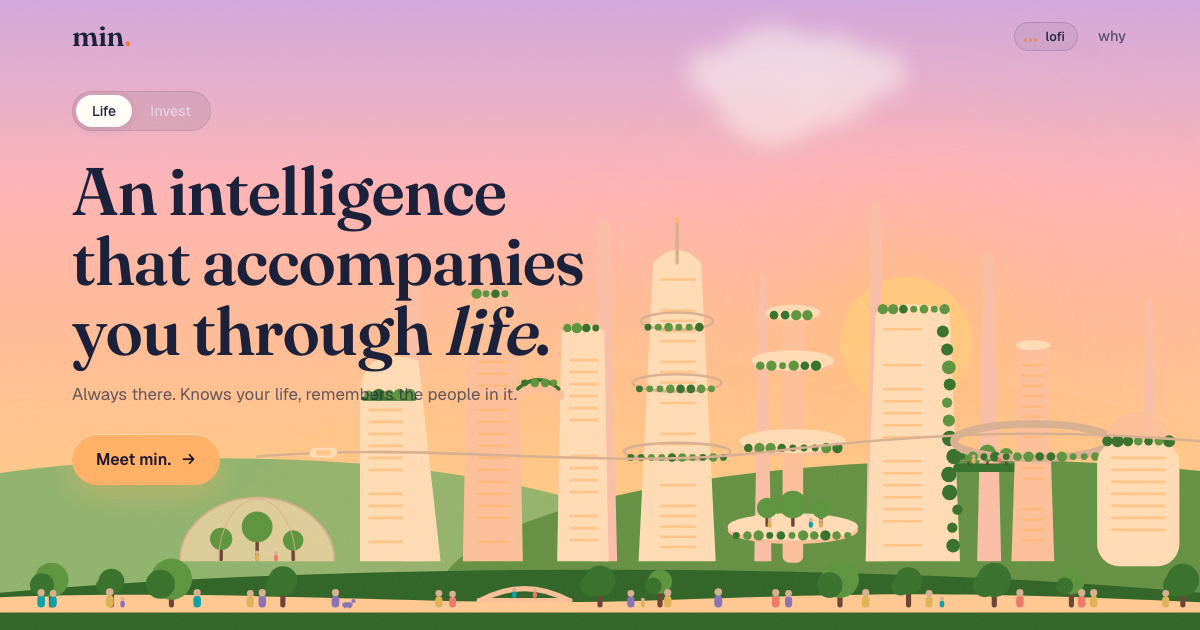
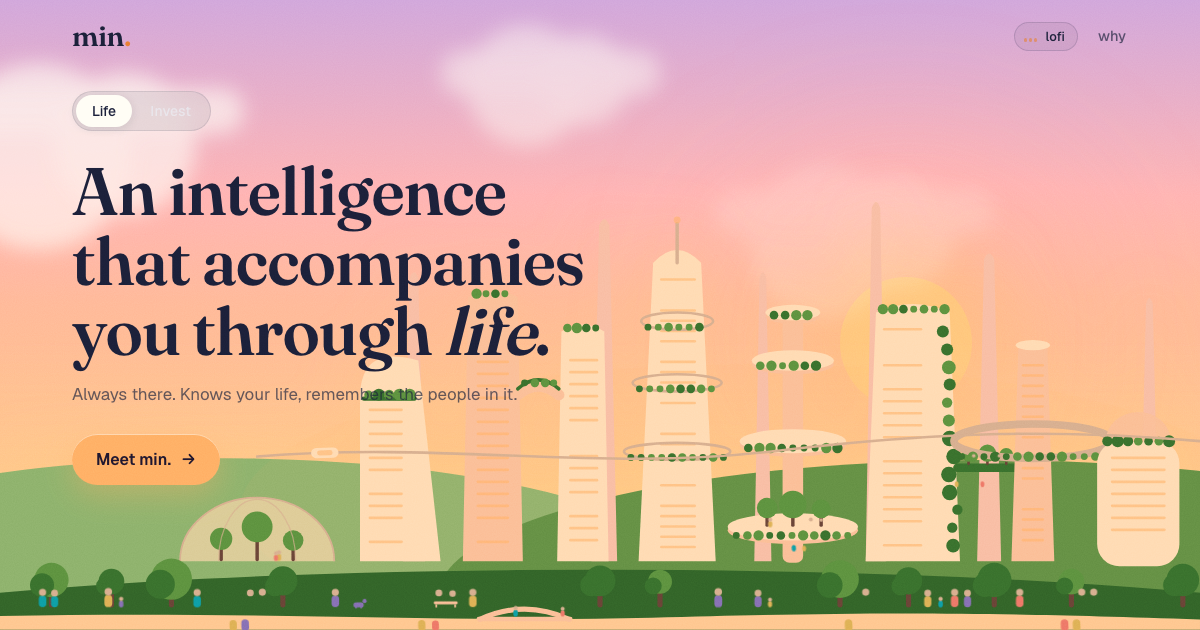
The people have their own lives
Everyone in the city now has somewhere to be or someone to talk to. Along
the promenade: couples and families walk its length at their own pace
and turn back, a child hops beside a parent, a dog runs ahead of its
person and waits, two friends on a bench lean in and nod, someone stands
and watches the river. Two cross the bridge, two chat on the park deck,
one drifts along the disc tower's platform, one wanders the glasshouse.
Nineteen of the thirty-three move; the rest are still on purpose.

All of it is transform-only CSS on the figures, so it costs nothing to
scroll, and all of it is off under reduced motion. The river moves to
the bottom edge of the scene with the bridge over it, because the
promenade's feet were standing in the water. Same drawing on both pages.

Changed region(s): [[0.0, 0.9349, 1.0, 1.0], [0.37, 0.0302, 0.7708, 0.2413], [0.0, 0.0905, 0.2158, 0.3921]]

diff --git a/about/index.html b/about/index.html
@@ -84,13 +84,40 @@
   .city .cityglow { opacity: var(--cityglow); }
   .city .pod { offset-path: path("M300,318 C520,300 700,336 900,312 S1240,286 1400,300"); offset-rotate: auto; animation: ride 46s linear infinite; }
   @keyframes ride { from { offset-distance: 0%; } to { offset-distance: 100%; } }
-  /* people: small enough to be part of the place, present enough to be the point */
+  /* people: small enough to be part of the place, present enough to be the point.
+     everyone has somewhere to be or someone to talk to: walkers cross the
+     promenade at their own pace and turn back, a dog runs ahead and waits, a
+     child hops, friends lean in and nod, someone stands and watches the river.
+     all transform-only, all off under reduced motion. */
   .people .p { transition: fill var(--fade); }
-  .people .walk1 { animation: stroll 42s ease-in-out infinite alternate; }
-  .people .walk2 { animation: stroll 50s ease-in-out infinite alternate-reverse; }
-  .people .walk3 { animation: stroll 36s ease-in-out infinite alternate; }
-  @keyframes stroll { from { translate: 0 0; } to { translate: 120px 0; } }
-  @media (prefers-reduced-motion: reduce) { .people .walk1, .people .walk2, .people .walk3 { animation: none; } }
+  .people .go-a   { animation: go-a 44s ease-in-out infinite alternate; }
+  .people .go-a-r { animation: go-a 44s ease-in-out infinite alternate-reverse; }
+  .people .go-b   { animation: go-b 38s ease-in-out infinite alternate; }
+  .people .go-b-r { animation: go-b 38s ease-in-out infinite alternate-reverse; }
+  .people .go-c   { animation: go-c 60s ease-in-out infinite alternate; }
+  .people .go-c-r { animation: go-c 60s ease-in-out infinite alternate-reverse; }
+  .people .dogrun { animation: dogrun 60s ease-in-out infinite alternate; }
+  .people .cross  { animation: cross 22s ease-in-out infinite alternate; }
+  .people .cross-r{ animation: cross 22s ease-in-out infinite alternate-reverse; }
+  .people .drift  { animation: drift 30s ease-in-out infinite alternate; }
+  .people .drift-r{ animation: drift 30s ease-in-out infinite alternate-reverse; }
+  @keyframes go-a { to { translate: 150px 0; } }
+  @keyframes go-b { to { translate: -110px 0; } }
+  @keyframes go-c { to { translate: 210px 0; } }
+  @keyframes dogrun { 0% { translate: 0 0; } 30% { translate: 210px 0; } 100% { translate: 210px 0; } }
+  @keyframes cross { to { translate: 34px 0; } }
+  @keyframes drift { to { translate: 26px 0; } }
+  .people .bob > * { animation: bob .72s ease-in-out infinite; }
+  .people .hop > * { animation: hop 1.3s ease-in-out infinite; }
+  .people .chat > circle { animation: nod 3.1s ease-in-out infinite; }
+  .people .chat > rect { transform-origin: 50% 100%; animation: lean 5.2s ease-in-out infinite alternate; }
+  .people .look > circle { animation: nod 7s ease-in-out infinite; }
+  .people .late > * { animation-delay: -1.7s; }
+  @keyframes bob { 50% { transform: translateY(-1.1px); } }
+  @keyframes hop { 0%, 60%, 100% { transform: translateY(0); } 30% { transform: translateY(-3.5px); } }
+  @keyframes nod { 0%, 100% { transform: translateY(0); } 40% { transform: translateY(-.7px); } 55% { transform: translateY(.3px); } }
+  @keyframes lean { from { transform: rotate(-2.5deg); } to { transform: rotate(2.5deg); } }
+  @media (prefers-reduced-motion: reduce) { .people .p, .people .p > * { animation: none !important; } }
   .haze { position: absolute; inset: auto 0 0 0; height: 60%; z-index: 2; pointer-events: none; background: linear-gradient(to top, var(--haze), transparent); }
   @media (max-width: 760px) {
     .city { width: 230%; left: -65%; }
@@ -382,9 +409,9 @@
   <path class="rail" d="M300,318 C520,300 700,336 900,312 S1240,286 1400,300" fill="none" stroke="var(--rail)" stroke-width="3" stroke-linecap="round"/>
   <g class="pod"><rect x="-16" y="-6" width="32" height="12" rx="6" fill="var(--tower)"/><rect x="-9" y="-3" width="18" height="6" rx="3" fill="var(--glow)" class="win"/></g>
   <ellipse cx="700" cy="540" rx="980" ry="90" fill="var(--hill-near)"/>
-  <path d="M0,482 C300,472 520,494 760,486 S1100,474 1400,488 L1400,500 L0,500 Z" fill="var(--water)"/>
-  <path d="M560,486 Q612,458 664,486" fill="none" stroke="var(--tower-2)" stroke-width="6" stroke-linecap="round"/>
-  <rect x="556" y="483" width="112" height="5" rx="2.5" fill="var(--tower-2)"/>
+  <path d="M0,504 C300,498 520,512 760,506 S1100,498 1400,508 L1400,520 L0,520 Z" fill="var(--water)"/>
+  <path d="M560,508 Q612,484 664,508" fill="none" stroke="var(--tower-2)" stroke-width="6" stroke-linecap="round"/>
+  <rect x="556" y="505" width="112" height="5" rx="2.5" fill="var(--tower-2)"/>
   <rect x="57" y="470" width="6" height="24" rx="3" fill="var(--trunk)"/>
   <circle cx="60" cy="462" r="20" fill="var(--leaf)"/>
   <circle cx="49" cy="468" r="14" fill="var(--leaf-2)"/>
@@ -419,40 +446,40 @@
   <circle cx="1380" cy="462" r="19" fill="var(--leaf-2)"/>
   <circle cx="1370" cy="468" r="13" fill="var(--leaf-2)"/>
   <g class="people" aria-hidden="true">
-  <g class="p" transform="translate(48,494)"><rect x="-4.4" y="-13.6" width="8.8" height="13.6" rx="4.4" fill="var(--c2)"/><circle cx="0" cy="-17.2" r="4.2" fill="var(--skin)"/></g>
-  <g class="p" transform="translate(62,494)"><rect x="-4.2" y="-13.0" width="8.4" height="13.0" rx="4.2" fill="var(--c2)"/><circle cx="0" cy="-16.4" r="4.0" fill="var(--skin)"/></g>
-  <g class="p" transform="translate(128,494)"><rect x="-4.6" y="-14.3" width="9.2" height="14.3" rx="4.6" fill="var(--c3)"/><circle cx="0" cy="-18.0" r="4.4" fill="var(--skin)"/></g>
-  <g class="p" transform="translate(143,494)"><rect x="-2.6" y="-8.1" width="5.2" height="8.1" rx="2.6" fill="var(--c4)"/><circle cx="0" cy="-9.9" r="2.5" fill="var(--skin)"/></g>
-  <g class="p" transform="translate(230,494)"><rect x="-4.4" y="-13.6" width="8.8" height="13.6" rx="4.4" fill="var(--c2)"/><circle cx="0" cy="-17.2" r="4.2" fill="var(--skin)"/></g>
-  <g class="p" transform="translate(292,494)"><rect x="-4.2" y="-13.0" width="8.4" height="13.0" rx="4.2" fill="var(--c3)"/><circle cx="0" cy="-16.4" r="4.0" fill="var(--skin)"/></g>
-  <g class="p" transform="translate(306,494)"><rect x="-4.4" y="-13.6" width="8.8" height="13.6" rx="4.4" fill="var(--c4)"/><circle cx="0" cy="-17.2" r="4.2" fill="var(--skin)"/></g>
-  <g class="p walk1" transform="translate(390,494)"><rect x="-4.4" y="-13.6" width="8.8" height="13.6" rx="4.4" fill="var(--c4)"/><circle cx="0" cy="-17.2" r="4.2" fill="var(--skin)"/></g>
-  <g class="p walk1" transform="translate(404,494)"><rect x="-6" y="-6" width="12" height="6" rx="3" fill="var(--c4)"/><circle cx="7" cy="-7.5" r="2.4" fill="var(--c4)"/><rect x="-4" y="-1" width="2" height="2" fill="var(--c4)"/><rect x="2" y="-1" width="2" height="2" fill="var(--c4)"/></g>
+  <g class="p go-a bob" transform="translate(48,494)"><rect x="-4.4" y="-13.6" width="8.8" height="13.6" rx="4.4" fill="var(--c2)"/><circle cx="0" cy="-17.2" r="4.2" fill="var(--skin)"/></g>
+  <g class="p go-a bob" transform="translate(62,494)"><rect x="-4.2" y="-13.0" width="8.4" height="13.0" rx="4.2" fill="var(--c2)"/><circle cx="0" cy="-16.4" r="4.0" fill="var(--skin)"/></g>
+  <g class="p go-b bob" transform="translate(128,494)"><rect x="-4.6" y="-14.3" width="9.2" height="14.3" rx="4.6" fill="var(--c3)"/><circle cx="0" cy="-18.0" r="4.4" fill="var(--skin)"/></g>
+  <g class="p go-b hop" transform="translate(143,494)"><rect x="-2.6" y="-8.1" width="5.2" height="8.1" rx="2.6" fill="var(--c4)"/><circle cx="0" cy="-9.9" r="2.5" fill="var(--skin)"/></g>
+  <g class="p look" transform="translate(230,494)"><rect x="-4.4" y="-13.6" width="8.8" height="13.6" rx="4.4" fill="var(--c2)"/><circle cx="0" cy="-17.2" r="4.2" fill="var(--skin)"/></g>
+  <g class="p chat" transform="translate(292,494)"><rect x="-4.2" y="-13.0" width="8.4" height="13.0" rx="4.2" fill="var(--c3)"/><circle cx="0" cy="-16.4" r="4.0" fill="var(--skin)"/></g>
+  <g class="p chat late" transform="translate(306,494)"><rect x="-4.4" y="-13.6" width="8.8" height="13.6" rx="4.4" fill="var(--c4)"/><circle cx="0" cy="-17.2" r="4.2" fill="var(--skin)"/></g>
+  <g class="p go-c bob" transform="translate(390,494)"><rect x="-4.4" y="-13.6" width="8.8" height="13.6" rx="4.4" fill="var(--c4)"/><circle cx="0" cy="-17.2" r="4.2" fill="var(--skin)"/></g>
+  <g class="p dogrun" transform="translate(404,494)"><rect x="-6" y="-6" width="12" height="6" rx="3" fill="var(--c4)"/><circle cx="7" cy="-7.5" r="2.4" fill="var(--c4)"/><rect x="-4" y="-1" width="2" height="2" fill="var(--c4)"/><rect x="2" y="-1" width="2" height="2" fill="var(--c4)"/></g>
   <rect x="506" y="487" width="28" height="3.5" rx="1.7" fill="var(--tower-2)"/><rect x="508" y="490.5" width="2" height="3.5" fill="var(--tower-2)"/><rect x="530" y="490.5" width="2" height="3.5" fill="var(--tower-2)"/>
-  <g class="p" transform="translate(512,494)"><rect x="-4.2" y="-13.0" width="8.4" height="13.0" rx="4.2" fill="var(--c3)"/><circle cx="0" cy="-16.4" r="4.0" fill="var(--skin)"/></g>
-  <g class="p" transform="translate(528,494)"><rect x="-4.0" y="-12.4" width="8.0" height="12.4" rx="4.0" fill="var(--c1)"/><circle cx="0" cy="-15.6" r="3.8" fill="var(--skin)"/></g>
-  <g class="p walk2" transform="translate(660,494)"><rect x="-4.4" y="-13.6" width="8.8" height="13.6" rx="4.4" fill="var(--c3)"/><circle cx="0" cy="-17.2" r="4.2" fill="var(--skin)"/></g>
-  <g class="p" transform="translate(736,494)"><rect x="-4.2" y="-13.0" width="8.4" height="13.0" rx="4.2" fill="var(--c4)"/><circle cx="0" cy="-16.4" r="4.0" fill="var(--skin)"/></g>
-  <g class="p" transform="translate(750,494)"><rect x="-2.4" y="-7.4" width="4.8" height="7.4" rx="2.4" fill="var(--c3)"/><circle cx="0" cy="-9.1" r="2.3" fill="var(--skin)"/></g>
-  <g class="p" transform="translate(838,494)"><rect x="-4.6" y="-14.3" width="9.2" height="14.3" rx="4.6" fill="var(--c4)"/><circle cx="0" cy="-18.0" r="4.4" fill="var(--skin)"/></g>
-  <g class="p" transform="translate(905,494)"><rect x="-4.4" y="-13.6" width="8.8" height="13.6" rx="4.4" fill="var(--c1)"/><circle cx="0" cy="-17.2" r="4.2" fill="var(--skin)"/></g>
-  <g class="p" transform="translate(920,494)"><rect x="-4.2" y="-13.0" width="8.4" height="13.0" rx="4.2" fill="var(--c4)"/><circle cx="0" cy="-16.4" r="4.0" fill="var(--skin)"/></g>
-  <g class="p" transform="translate(1010,494)"><rect x="-4.4" y="-13.6" width="8.8" height="13.6" rx="4.4" fill="var(--c3)"/><circle cx="0" cy="-17.2" r="4.2" fill="var(--skin)"/></g>
-  <g class="p" transform="translate(1084,494)"><rect x="-4.2" y="-13.0" width="8.4" height="13.0" rx="4.2" fill="var(--c3)"/><circle cx="0" cy="-16.4" r="4.0" fill="var(--skin)"/></g>
-  <g class="p" transform="translate(1099,494)"><rect x="-2.6" y="-8.1" width="5.2" height="8.1" rx="2.6" fill="var(--c2)"/><circle cx="0" cy="-9.9" r="2.5" fill="var(--skin)"/></g>
-  <g class="p walk3" transform="translate(1188,494)"><rect x="-4.4" y="-13.6" width="8.8" height="13.6" rx="4.4" fill="var(--c1)"/><circle cx="0" cy="-17.2" r="4.2" fill="var(--skin)"/></g>
-  <g class="p" transform="translate(1262,494)"><rect x="-4.4" y="-13.6" width="8.8" height="13.6" rx="4.4" fill="var(--c1)"/><circle cx="0" cy="-17.2" r="4.2" fill="var(--skin)"/></g>
-  <g class="p" transform="translate(1276,494)"><rect x="-4.4" y="-13.6" width="8.8" height="13.6" rx="4.4" fill="var(--c3)"/><circle cx="0" cy="-17.2" r="4.2" fill="var(--skin)"/></g>
-  <g class="p" transform="translate(1360,494)"><rect x="-4.2" y="-13.0" width="8.4" height="13.0" rx="4.2" fill="var(--c3)"/><circle cx="0" cy="-16.4" r="4.0" fill="var(--skin)"/></g>
-  <g class="p" transform="translate(600,483)"><rect x="-2.6" y="-8.1" width="5.2" height="8.1" rx="2.6" fill="var(--c2)"/><circle cx="0" cy="-9.9" r="2.5" fill="var(--skin)"/></g>
-  <g class="p" transform="translate(624,483)"><rect x="-2.4" y="-7.4" width="4.8" height="7.4" rx="2.4" fill="var(--c1)"/><circle cx="0" cy="-9.1" r="2.3" fill="var(--skin)"/></g>
-  <g class="p" transform="translate(1136,326)"><rect x="-2.2" y="-6.8" width="4.4" height="6.8" rx="2.2" fill="var(--c3)"/><circle cx="0" cy="-8.3" r="2.1" fill="var(--skin)"/></g>
-  <g class="p" transform="translate(1166,326)"><rect x="-2.2" y="-6.8" width="4.4" height="6.8" rx="2.2" fill="var(--c1)"/><circle cx="0" cy="-8.3" r="2.1" fill="var(--skin)"/></g>
-  <g class="p" transform="translate(898,401)"><rect x="-2.4" y="-7.4" width="4.8" height="7.4" rx="2.4" fill="var(--c3)"/><circle cx="0" cy="-9.1" r="2.3" fill="var(--skin)"/></g>
-  <g class="p" transform="translate(946,401)"><rect x="-2.4" y="-7.4" width="4.8" height="7.4" rx="2.4" fill="var(--c2)"/><circle cx="0" cy="-9.1" r="2.3" fill="var(--skin)"/></g>
-  <g class="p" transform="translate(958,401)"><rect x="-2.2" y="-6.8" width="4.4" height="6.8" rx="2.2" fill="var(--c3)"/><circle cx="0" cy="-8.3" r="2.1" fill="var(--skin)"/></g>
-  <g class="p" transform="translate(300,440)"><rect x="-2.6" y="-8.1" width="5.2" height="8.1" rx="2.6" fill="var(--c3)"/><circle cx="0" cy="-9.9" r="2.5" fill="var(--skin)"/></g>
-  <g class="p" transform="translate(322,440)"><rect x="-2.4" y="-7.4" width="4.8" height="7.4" rx="2.4" fill="var(--c1)"/><circle cx="0" cy="-9.1" r="2.3" fill="var(--skin)"/></g>
+  <g class="p chat" transform="translate(512,494)"><rect x="-4.2" y="-13.0" width="8.4" height="13.0" rx="4.2" fill="var(--c3)"/><circle cx="0" cy="-16.4" r="4.0" fill="var(--skin)"/></g>
+  <g class="p chat late" transform="translate(528,494)"><rect x="-4.0" y="-12.4" width="8.0" height="12.4" rx="4.0" fill="var(--c1)"/><circle cx="0" cy="-15.6" r="3.8" fill="var(--skin)"/></g>
+  <g class="p go-b-r bob" transform="translate(660,494)"><rect x="-4.4" y="-13.6" width="8.8" height="13.6" rx="4.4" fill="var(--c3)"/><circle cx="0" cy="-17.2" r="4.2" fill="var(--skin)"/></g>
+  <g class="p go-a-r bob" transform="translate(736,494)"><rect x="-4.2" y="-13.0" width="8.4" height="13.0" rx="4.2" fill="var(--c4)"/><circle cx="0" cy="-16.4" r="4.0" fill="var(--skin)"/></g>
+  <g class="p go-a-r hop" transform="translate(750,494)"><rect x="-2.4" y="-7.4" width="4.8" height="7.4" rx="2.4" fill="var(--c3)"/><circle cx="0" cy="-9.1" r="2.3" fill="var(--skin)"/></g>
+  <g class="p look late" transform="translate(838,494)"><rect x="-4.6" y="-14.3" width="9.2" height="14.3" rx="4.6" fill="var(--c4)"/><circle cx="0" cy="-18.0" r="4.4" fill="var(--skin)"/></g>
+  <g class="p go-c-r bob" transform="translate(905,494)"><rect x="-4.4" y="-13.6" width="8.8" height="13.6" rx="4.4" fill="var(--c1)"/><circle cx="0" cy="-17.2" r="4.2" fill="var(--skin)"/></g>
+  <g class="p go-c-r bob" transform="translate(920,494)"><rect x="-4.2" y="-13.0" width="8.4" height="13.0" rx="4.2" fill="var(--c4)"/><circle cx="0" cy="-16.4" r="4.0" fill="var(--skin)"/></g>
+  <g class="p chat" transform="translate(1010,494)"><rect x="-4.4" y="-13.6" width="8.8" height="13.6" rx="4.4" fill="var(--c3)"/><circle cx="0" cy="-17.2" r="4.2" fill="var(--skin)"/></g>
+  <g class="p go-b bob" transform="translate(1084,494)"><rect x="-4.2" y="-13.0" width="8.4" height="13.0" rx="4.2" fill="var(--c3)"/><circle cx="0" cy="-16.4" r="4.0" fill="var(--skin)"/></g>
+  <g class="p go-b hop late" transform="translate(1099,494)"><rect x="-2.6" y="-8.1" width="5.2" height="8.1" rx="2.6" fill="var(--c2)"/><circle cx="0" cy="-9.9" r="2.5" fill="var(--skin)"/></g>
+  <g class="p go-a bob" transform="translate(1188,494)"><rect x="-4.4" y="-13.6" width="8.8" height="13.6" rx="4.4" fill="var(--c1)"/><circle cx="0" cy="-17.2" r="4.2" fill="var(--skin)"/></g>
+  <g class="p chat late" transform="translate(1262,494)"><rect x="-4.4" y="-13.6" width="8.8" height="13.6" rx="4.4" fill="var(--c1)"/><circle cx="0" cy="-17.2" r="4.2" fill="var(--skin)"/></g>
+  <g class="p chat" transform="translate(1276,494)"><rect x="-4.4" y="-13.6" width="8.8" height="13.6" rx="4.4" fill="var(--c3)"/><circle cx="0" cy="-17.2" r="4.2" fill="var(--skin)"/></g>
+  <g class="p go-c-r bob" transform="translate(1360,494)"><rect x="-4.2" y="-13.0" width="8.4" height="13.0" rx="4.2" fill="var(--c3)"/><circle cx="0" cy="-16.4" r="4.0" fill="var(--skin)"/></g>
+  <g class="p cross bob" transform="translate(600,505)"><rect x="-2.6" y="-8.1" width="5.2" height="8.1" rx="2.6" fill="var(--c2)"/><circle cx="0" cy="-9.9" r="2.5" fill="var(--skin)"/></g>
+  <g class="p cross-r bob" transform="translate(624,505)"><rect x="-2.4" y="-7.4" width="4.8" height="7.4" rx="2.4" fill="var(--c1)"/><circle cx="0" cy="-9.1" r="2.3" fill="var(--skin)"/></g>
+  <g class="p chat" transform="translate(1136,326)"><rect x="-2.2" y="-6.8" width="4.4" height="6.8" rx="2.2" fill="var(--c3)"/><circle cx="0" cy="-8.3" r="2.1" fill="var(--skin)"/></g>
+  <g class="p chat late" transform="translate(1166,326)"><rect x="-2.2" y="-6.8" width="4.4" height="6.8" rx="2.2" fill="var(--c1)"/><circle cx="0" cy="-8.3" r="2.1" fill="var(--skin)"/></g>
+  <g class="p drift bob" transform="translate(898,401)"><rect x="-2.4" y="-7.4" width="4.8" height="7.4" rx="2.4" fill="var(--c3)"/><circle cx="0" cy="-9.1" r="2.3" fill="var(--skin)"/></g>
+  <g class="p chat" transform="translate(946,401)"><rect x="-2.4" y="-7.4" width="4.8" height="7.4" rx="2.4" fill="var(--c2)"/><circle cx="0" cy="-9.1" r="2.3" fill="var(--skin)"/></g>
+  <g class="p chat late" transform="translate(958,401)"><rect x="-2.2" y="-6.8" width="4.4" height="6.8" rx="2.2" fill="var(--c3)"/><circle cx="0" cy="-8.3" r="2.1" fill="var(--skin)"/></g>
+  <g class="p drift-r bob" transform="translate(300,440)"><rect x="-2.6" y="-8.1" width="5.2" height="8.1" rx="2.6" fill="var(--c3)"/><circle cx="0" cy="-9.9" r="2.5" fill="var(--skin)"/></g>
+  <g class="p look" transform="translate(322,440)"><rect x="-2.4" y="-7.4" width="4.8" height="7.4" rx="2.4" fill="var(--c1)"/><circle cx="0" cy="-9.1" r="2.3" fill="var(--skin)"/></g>
   </g>
 </svg>
     <div class="haze"></div>

diff --git a/index.html b/index.html
@@ -424,13 +424,40 @@
     .city { width: 230%; left: -65%; }
   }
 
-  /* people: small enough to be part of the place, present enough to be the point */
+  /* people: small enough to be part of the place, present enough to be the point.
+     everyone has somewhere to be or someone to talk to: walkers cross the
+     promenade at their own pace and turn back, a dog runs ahead and waits, a
+     child hops, friends lean in and nod, someone stands and watches the river.
+     all transform-only, all off under reduced motion. */
   .people .p { transition: fill var(--fade); }
-  .people .walk1 { animation: stroll 42s ease-in-out infinite alternate; }
-  .people .walk2 { animation: stroll 50s ease-in-out infinite alternate-reverse; }
-  .people .walk3 { animation: stroll 36s ease-in-out infinite alternate; }
-  @keyframes stroll { from { translate: 0 0; } to { translate: 120px 0; } }
-  @media (prefers-reduced-motion: reduce) { .people .walk1, .people .walk2, .people .walk3 { animation: none; } }
+  .people .go-a   { animation: go-a 44s ease-in-out infinite alternate; }
+  .people .go-a-r { animation: go-a 44s ease-in-out infinite alternate-reverse; }
+  .people .go-b   { animation: go-b 38s ease-in-out infinite alternate; }
+  .people .go-b-r { animation: go-b 38s ease-in-out infinite alternate-reverse; }
+  .people .go-c   { animation: go-c 60s ease-in-out infinite alternate; }
+  .people .go-c-r { animation: go-c 60s ease-in-out infinite alternate-reverse; }
+  .people .dogrun { animation: dogrun 60s ease-in-out infinite alternate; }
+  .people .cross  { animation: cross 22s ease-in-out infinite alternate; }
+  .people .cross-r{ animation: cross 22s ease-in-out infinite alternate-reverse; }
+  .people .drift  { animation: drift 30s ease-in-out infinite alternate; }
+  .people .drift-r{ animation: drift 30s ease-in-out infinite alternate-reverse; }
+  @keyframes go-a { to { translate: 150px 0; } }
+  @keyframes go-b { to { translate: -110px 0; } }
+  @keyframes go-c { to { translate: 210px 0; } }
+  @keyframes dogrun { 0% { translate: 0 0; } 30% { translate: 210px 0; } 100% { translate: 210px 0; } }
+  @keyframes cross { to { translate: 34px 0; } }
+  @keyframes drift { to { translate: 26px 0; } }
+  .people .bob > * { animation: bob .72s ease-in-out infinite; }
+  .people .hop > * { animation: hop 1.3s ease-in-out infinite; }
+  .people .chat > circle { animation: nod 3.1s ease-in-out infinite; }
+  .people .chat > rect { transform-origin: 50% 100%; animation: lean 5.2s ease-in-out infinite alternate; }
+  .people .look > circle { animation: nod 7s ease-in-out infinite; }
+  .people .late > * { animation-delay: -1.7s; }
+  @keyframes bob { 50% { transform: translateY(-1.1px); } }
+  @keyframes hop { 0%, 60%, 100% { transform: translateY(0); } 30% { transform: translateY(-3.5px); } }
+  @keyframes nod { 0%, 100% { transform: translateY(0); } 40% { transform: translateY(-.7px); } 55% { transform: translateY(.3px); } }
+  @keyframes lean { from { transform: rotate(-2.5deg); } to { transform: rotate(2.5deg); } }
+  @media (prefers-reduced-motion: reduce) { .people .p, .people .p > * { animation: none !important; } }
   /* fireflies, only at night and only when it is clear */
   .fly { position: absolute; z-index: 6; width: 5px; height: 5px; border-radius: 50%; background: var(--glow);
          box-shadow: 0 0 10px 3px oklch(from var(--glow) l c h / .5); opacity: 0; pointer-events: none; }
@@ -824,9 +851,9 @@
   <path class="rail" d="M300,318 C520,300 700,336 900,312 S1240,286 1400,300" fill="none" stroke="var(--rail)" stroke-width="3" stroke-linecap="round"/>
   <g class="pod"><rect x="-16" y="-6" width="32" height="12" rx="6" fill="var(--tower)"/><rect x="-9" y="-3" width="18" height="6" rx="3" fill="var(--glow)" class="win"/></g>
   <ellipse cx="700" cy="540" rx="980" ry="90" fill="var(--hill-near)"/>
-  <path d="M0,482 C300,472 520,494 760,486 S1100,474 1400,488 L1400,500 L0,500 Z" fill="var(--water)"/>
-  <path d="M560,486 Q612,458 664,486" fill="none" stroke="var(--tower-2)" stroke-width="6" stroke-linecap="round"/>
-  <rect x="556" y="483" width="112" height="5" rx="2.5" fill="var(--tower-2)"/>
+  <path d="M0,504 C300,498 520,512 760,506 S1100,498 1400,508 L1400,520 L0,520 Z" fill="var(--water)"/>
+  <path d="M560,508 Q612,484 664,508" fill="none" stroke="var(--tower-2)" stroke-width="6" stroke-linecap="round"/>
+  <rect x="556" y="505" width="112" height="5" rx="2.5" fill="var(--tower-2)"/>
   <rect x="57" y="470" width="6" height="24" rx="3" fill="var(--trunk)"/>
   <circle cx="60" cy="462" r="20" fill="var(--leaf)"/>
   <circle cx="49" cy="468" r="14" fill="var(--leaf-2)"/>
@@ -861,40 +888,40 @@
   <circle cx="1380" cy="462" r="19" fill="var(--leaf-2)"/>
   <circle cx="1370" cy="468" r="13" fill="var(--leaf-2)"/>
   <g class="people" aria-hidden="true">
-  <g class="p" transform="translate(48,494)"><rect x="-4.4" y="-13.6" width="8.8" height="13.6" rx="4.4" fill="var(--c2)"/><circle cx="0" cy="-17.2" r="4.2" fill="var(--skin)"/></g>
-  <g class="p" transform="translate(62,494)"><rect x="-4.2" y="-13.0" width="8.4" height="13.0" rx="4.2" fill="var(--c2)"/><circle cx="0" cy="-16.4" r="4.0" fill="var(--skin)"/></g>
-  <g class="p" transform="translate(128,494)"><rect x="-4.6" y="-14.3" width="9.2" height="14.3" rx="4.6" fill="var(--c3)"/><circle cx="0" cy="-18.0" r="4.4" fill="var(--skin)"/></g>
-  <g class="p" transform="translate(143,494)"><rect x="-2.6" y="-8.1" width="5.2" height="8.1" rx="2.6" fill="var(--c4)"/><circle cx="0" cy="-9.9" r="2.5" fill="var(--skin)"/></g>
-  <g class="p" transform="translate(230,494)"><rect x="-4.4" y="-13.6" width="8.8" height="13.6" rx="4.4" fill="var(--c2)"/><circle cx="0" cy="-17.2" r="4.2" fill="var(--skin)"/></g>
-  <g class="p" transform="translate(292,494)"><rect x="-4.2" y="-13.0" width="8.4" height="13.0" rx="4.2" fill="var(--c3)"/><circle cx="0" cy="-16.4" r="4.0" fill="var(--skin)"/></g>
-  <g class="p" transform="translate(306,494)"><rect x="-4.4" y="-13.6" width="8.8" height="13.6" rx="4.4" fill="var(--c4)"/><circle cx="0" cy="-17.2" r="4.2" fill="var(--skin)"/></g>
-  <g class="p walk1" transform="translate(390,494)"><rect x="-4.4" y="-13.6" width="8.8" height="13.6" rx="4.4" fill="var(--c4)"/><circle cx="0" cy="-17.2" r="4.2" fill="var(--skin)"/></g>
-  <g class="p walk1" transform="translate(404,494)"><rect x="-6" y="-6" width="12" height="6" rx="3" fill="var(--c4)"/><circle cx="7" cy="-7.5" r="2.4" fill="var(--c4)"/><rect x="-4" y="-1" width="2" height="2" fill="var(--c4)"/><rect x="2" y="-1" width="2" height="2" fill="var(--c4)"/></g>
+  <g class="p go-a bob" transform="translate(48,494)"><rect x="-4.4" y="-13.6" width="8.8" height="13.6" rx="4.4" fill="var(--c2)"/><circle cx="0" cy="-17.2" r="4.2" fill="var(--skin)"/></g>
+  <g class="p go-a bob" transform="translate(62,494)"><rect x="-4.2" y="-13.0" width="8.4" height="13.0" rx="4.2" fill="var(--c2)"/><circle cx="0" cy="-16.4" r="4.0" fill="var(--skin)"/></g>
+  <g class="p go-b bob" transform="translate(128,494)"><rect x="-4.6" y="-14.3" width="9.2" height="14.3" rx="4.6" fill="var(--c3)"/><circle cx="0" cy="-18.0" r="4.4" fill="var(--skin)"/></g>
+  <g class="p go-b hop" transform="translate(143,494)"><rect x="-2.6" y="-8.1" width="5.2" height="8.1" rx="2.6" fill="var(--c4)"/><circle cx="0" cy="-9.9" r="2.5" fill="var(--skin)"/></g>
+  <g class="p look" transform="translate(230,494)"><rect x="-4.4" y="-13.6" width="8.8" height="13.6" rx="4.4" fill="var(--c2)"/><circle cx="0" cy="-17.2" r="4.2" fill="var(--skin)"/></g>
+  <g class="p chat" transform="translate(292,494)"><rect x="-4.2" y="-13.0" width="8.4" height="13.0" rx="4.2" fill="var(--c3)"/><circle cx="0" cy="-16.4" r="4.0" fill="var(--skin)"/></g>
+  <g class="p chat late" transform="translate(306,494)"><rect x="-4.4" y="-13.6" width="8.8" height="13.6" rx="4.4" fill="var(--c4)"/><circle cx="0" cy="-17.2" r="4.2" fill="var(--skin)"/></g>
+  <g class="p go-c bob" transform="translate(390,494)"><rect x="-4.4" y="-13.6" width="8.8" height="13.6" rx="4.4" fill="var(--c4)"/><circle cx="0" cy="-17.2" r="4.2" fill="var(--skin)"/></g>
+  <g class="p dogrun" transform="translate(404,494)"><rect x="-6" y="-6" width="12" height="6" rx="3" fill="var(--c4)"/><circle cx="7" cy="-7.5" r="2.4" fill="var(--c4)"/><rect x="-4" y="-1" width="2" height="2" fill="var(--c4)"/><rect x="2" y="-1" width="2" height="2" fill="var(--c4)"/></g>
   <rect x="506" y="487" width="28" height="3.5" rx="1.7" fill="var(--tower-2)"/><rect x="508" y="490.5" width="2" height="3.5" fill="var(--tower-2)"/><rect x="530" y="490.5" width="2" height="3.5" fill="var(--tower-2)"/>
-  <g class="p" transform="translate(512,494)"><rect x="-4.2" y="-13.0" width="8.4" height="13.0" rx="4.2" fill="var(--c3)"/><circle cx="0" cy="-16.4" r="4.0" fill="var(--skin)"/></g>
-  <g class="p" transform="translate(528,494)"><rect x="-4.0" y="-12.4" width="8.0" height="12.4" rx="4.0" fill="var(--c1)"/><circle cx="0" cy="-15.6" r="3.8" fill="var(--skin)"/></g>
-  <g class="p walk2" transform="translate(660,494)"><rect x="-4.4" y="-13.6" width="8.8" height="13.6" rx="4.4" fill="var(--c3)"/><circle cx="0" cy="-17.2" r="4.2" fill="var(--skin)"/></g>
-  <g class="p" transform="translate(736,494)"><rect x="-4.2" y="-13.0" width="8.4" height="13.0" rx="4.2" fill="var(--c4)"/><circle cx="0" cy="-16.4" r="4.0" fill="var(--skin)"/></g>
-  <g class="p" transform="translate(750,494)"><rect x="-2.4" y="-7.4" width="4.8" height="7.4" rx="2.4" fill="var(--c3)"/><circle cx="0" cy="-9.1" r="2.3" fill="var(--skin)"/></g>
-  <g class="p" transform="translate(838,494)"><rect x="-4.6" y="-14.3" width="9.2" height="14.3" rx="4.6" fill="var(--c4)"/><circle cx="0" cy="-18.0" r="4.4" fill="var(--skin)"/></g>
-  <g class="p" transform="translate(905,494)"><rect x="-4.4" y="-13.6" width="8.8" height="13.6" rx="4.4" fill="var(--c1)"/><circle cx="0" cy="-17.2" r="4.2" fill="var(--skin)"/></g>
-  <g class="p" transform="translate(920,494)"><rect x="-4.2" y="-13.0" width="8.4" height="13.0" rx="4.2" fill="var(--c4)"/><circle cx="0" cy="-16.4" r="4.0" fill="var(--skin)"/></g>
-  <g class="p" transform="translate(1010,494)"><rect x="-4.4" y="-13.6" width="8.8" height="13.6" rx="4.4" fill="var(--c3)"/><circle cx="0" cy="-17.2" r="4.2" fill="var(--skin)"/></g>
-  <g class="p" transform="translate(1084,494)"><rect x="-4.2" y="-13.0" width="8.4" height="13.0" rx="4.2" fill="var(--c3)"/><circle cx="0" cy="-16.4" r="4.0" fill="var(--skin)"/></g>
-  <g class="p" transform="translate(1099,494)"><rect x="-2.6" y="-8.1" width="5.2" height="8.1" rx="2.6" fill="var(--c2)"/><circle cx="0" cy="-9.9" r="2.5" fill="var(--skin)"/></g>
-  <g class="p walk3" transform="translate(1188,494)"><rect x="-4.4" y="-13.6" width="8.8" height="13.6" rx="4.4" fill="var(--c1)"/><circle cx="0" cy="-17.2" r="4.2" fill="var(--skin)"/></g>
-  <g class="p" transform="translate(1262,494)"><rect x="-4.4" y="-13.6" width="8.8" height="13.6" rx="4.4" fill="var(--c1)"/><circle cx="0" cy="-17.2" r="4.2" fill="var(--skin)"/></g>
-  <g class="p" transform="translate(1276,494)"><rect x="-4.4" y="-13.6" width="8.8" height="13.6" rx="4.4" fill="var(--c3)"/><circle cx="0" cy="-17.2" r="4.2" fill="var(--skin)"/></g>
-  <g class="p" transform="translate(1360,494)"><rect x="-4.2" y="-13.0" width="8.4" height="13.0" rx="4.2" fill="var(--c3)"/><circle cx="0" cy="-16.4" r="4.0" fill="var(--skin)"/></g>
-  <g class="p" transform="translate(600,483)"><rect x="-2.6" y="-8.1" width="5.2" height="8.1" rx="2.6" fill="var(--c2)"/><circle cx="0" cy="-9.9" r="2.5" fill="var(--skin)"/></g>
-  <g class="p" transform="translate(624,483)"><rect x="-2.4" y="-7.4" width="4.8" height="7.4" rx="2.4" fill="var(--c1)"/><circle cx="0" cy="-9.1" r="2.3" fill="var(--skin)"/></g>
-  <g class="p" transform="translate(1136,326)"><rect x="-2.2" y="-6.8" width="4.4" height="6.8" rx="2.2" fill="var(--c3)"/><circle cx="0" cy="-8.3" r="2.1" fill="var(--skin)"/></g>
-  <g class="p" transform="translate(1166,326)"><rect x="-2.2" y="-6.8" width="4.4" height="6.8" rx="2.2" fill="var(--c1)"/><circle cx="0" cy="-8.3" r="2.1" fill="var(--skin)"/></g>
-  <g class="p" transform="translate(898,401)"><rect x="-2.4" y="-7.4" width="4.8" height="7.4" rx="2.4" fill="var(--c3)"/><circle cx="0" cy="-9.1" r="2.3" fill="var(--skin)"/></g>
-  <g class="p" transform="translate(946,401)"><rect x="-2.4" y="-7.4" width="4.8" height="7.4" rx="2.4" fill="var(--c2)"/><circle cx="0" cy="-9.1" r="2.3" fill="var(--skin)"/></g>
-  <g class="p" transform="translate(958,401)"><rect x="-2.2" y="-6.8" width="4.4" height="6.8" rx="2.2" fill="var(--c3)"/><circle cx="0" cy="-8.3" r="2.1" fill="var(--skin)"/></g>
-  <g class="p" transform="translate(300,440)"><rect x="-2.6" y="-8.1" width="5.2" height="8.1" rx="2.6" fill="var(--c3)"/><circle cx="0" cy="-9.9" r="2.5" fill="var(--skin)"/></g>
-  <g class="p" transform="translate(322,440)"><rect x="-2.4" y="-7.4" width="4.8" height="7.4" rx="2.4" fill="var(--c1)"/><circle cx="0" cy="-9.1" r="2.3" fill="var(--skin)"/></g>
+  <g class="p chat" transform="translate(512,494)"><rect x="-4.2" y="-13.0" width="8.4" height="13.0" rx="4.2" fill="var(--c3)"/><circle cx="0" cy="-16.4" r="4.0" fill="var(--skin)"/></g>
+  <g class="p chat late" transform="translate(528,494)"><rect x="-4.0" y="-12.4" width="8.0" height="12.4" rx="4.0" fill="var(--c1)"/><circle cx="0" cy="-15.6" r="3.8" fill="var(--skin)"/></g>
+  <g class="p go-b-r bob" transform="translate(660,494)"><rect x="-4.4" y="-13.6" width="8.8" height="13.6" rx="4.4" fill="var(--c3)"/><circle cx="0" cy="-17.2" r="4.2" fill="var(--skin)"/></g>
+  <g class="p go-a-r bob" transform="translate(736,494)"><rect x="-4.2" y="-13.0" width="8.4" height="13.0" rx="4.2" fill="var(--c4)"/><circle cx="0" cy="-16.4" r="4.0" fill="var(--skin)"/></g>
+  <g class="p go-a-r hop" transform="translate(750,494)"><rect x="-2.4" y="-7.4" width="4.8" height="7.4" rx="2.4" fill="var(--c3)"/><circle cx="0" cy="-9.1" r="2.3" fill="var(--skin)"/></g>
+  <g class="p look late" transform="translate(838,494)"><rect x="-4.6" y="-14.3" width="9.2" height="14.3" rx="4.6" fill="var(--c4)"/><circle cx="0" cy="-18.0" r="4.4" fill="var(--skin)"/></g>
+  <g class="p go-c-r bob" transform="translate(905,494)"><rect x="-4.4" y="-13.6" width="8.8" height="13.6" rx="4.4" fill="var(--c1)"/><circle cx="0" cy="-17.2" r="4.2" fill="var(--skin)"/></g>
+  <g class="p go-c-r bob" transform="translate(920,494)"><rect x="-4.2" y="-13.0" width="8.4" height="13.0" rx="4.2" fill="var(--c4)"/><circle cx="0" cy="-16.4" r="4.0" fill="var(--skin)"/></g>
+  <g class="p chat" transform="translate(1010,494)"><rect x="-4.4" y="-13.6" width="8.8" height="13.6" rx="4.4" fill="var(--c3)"/><circle cx="0" cy="-17.2" r="4.2" fill="var(--skin)"/></g>
+  <g class="p go-b bob" transform="translate(1084,494)"><rect x="-4.2" y="-13.0" width="8.4" height="13.0" rx="4.2" fill="var(--c3)"/><circle cx="0" cy="-16.4" r="4.0" fill="var(--skin)"/></g>
+  <g class="p go-b hop late" transform="translate(1099,494)"><rect x="-2.6" y="-8.1" width="5.2" height="8.1" rx="2.6" fill="var(--c2)"/><circle cx="0" cy="-9.9" r="2.5" fill="var(--skin)"/></g>
+  <g class="p go-a bob" transform="translate(1188,494)"><rect x="-4.4" y="-13.6" width="8.8" height="13.6" rx="4.4" fill="var(--c1)"/><circle cx="0" cy="-17.2" r="4.2" fill="var(--skin)"/></g>
+  <g class="p chat late" transform="translate(1262,494)"><rect x="-4.4" y="-13.6" width="8.8" height="13.6" rx="4.4" fill="var(--c1)"/><circle cx="0" cy="-17.2" r="4.2" fill="var(--skin)"/></g>
+  <g class="p chat" transform="translate(1276,494)"><rect x="-4.4" y="-13.6" width="8.8" height="13.6" rx="4.4" fill="var(--c3)"/><circle cx="0" cy="-17.2" r="4.2" fill="var(--skin)"/></g>
+  <g class="p go-c-r bob" transform="translate(1360,494)"><rect x="-4.2" y="-13.0" width="8.4" height="13.0" rx="4.2" fill="var(--c3)"/><circle cx="0" cy="-16.4" r="4.0" fill="var(--skin)"/></g>
+  <g class="p cross bob" transform="translate(600,505)"><rect x="-2.6" y="-8.1" width="5.2" height="8.1" rx="2.6" fill="var(--c2)"/><circle cx="0" cy="-9.9" r="2.5" fill="var(--skin)"/></g>
+  <g class="p cross-r bob" transform="translate(624,505)"><rect x="-2.4" y="-7.4" width="4.8" height="7.4" rx="2.4" fill="var(--c1)"/><circle cx="0" cy="-9.1" r="2.3" fill="var(--skin)"/></g>
+  <g class="p chat" transform="translate(1136,326)"><rect x="-2.2" y="-6.8" width="4.4" height="6.8" rx="2.2" fill="var(--c3)"/><circle cx="0" cy="-8.3" r="2.1" fill="var(--skin)"/></g>
+  <g class="p chat late" transform="translate(1166,326)"><rect x="-2.2" y="-6.8" width="4.4" height="6.8" rx="2.2" fill="var(--c1)"/><circle cx="0" cy="-8.3" r="2.1" fill="var(--skin)"/></g>
+  <g class="p drift bob" transform="translate(898,401)"><rect x="-2.4" y="-7.4" width="4.8" height="7.4" rx="2.4" fill="var(--c3)"/><circle cx="0" cy="-9.1" r="2.3" fill="var(--skin)"/></g>
+  <g class="p chat" transform="translate(946,401)"><rect x="-2.4" y="-7.4" width="4.8" height="7.4" rx="2.4" fill="var(--c2)"/><circle cx="0" cy="-9.1" r="2.3" fill="var(--skin)"/></g>
+  <g class="p chat late" transform="translate(958,401)"><rect x="-2.2" y="-6.8" width="4.4" height="6.8" rx="2.2" fill="var(--c3)"/><circle cx="0" cy="-8.3" r="2.1" fill="var(--skin)"/></g>
+  <g class="p drift-r bob" transform="translate(300,440)"><rect x="-2.6" y="-8.1" width="5.2" height="8.1" rx="2.6" fill="var(--c3)"/><circle cx="0" cy="-9.9" r="2.5" fill="var(--skin)"/></g>
+  <g class="p look" transform="translate(322,440)"><rect x="-2.4" y="-7.4" width="4.8" height="7.4" rx="2.4" fill="var(--c1)"/><circle cx="0" cy="-9.1" r="2.3" fill="var(--skin)"/></g>
   </g>
 </svg>
   <div class="haze" aria-hidden="true"></div>
